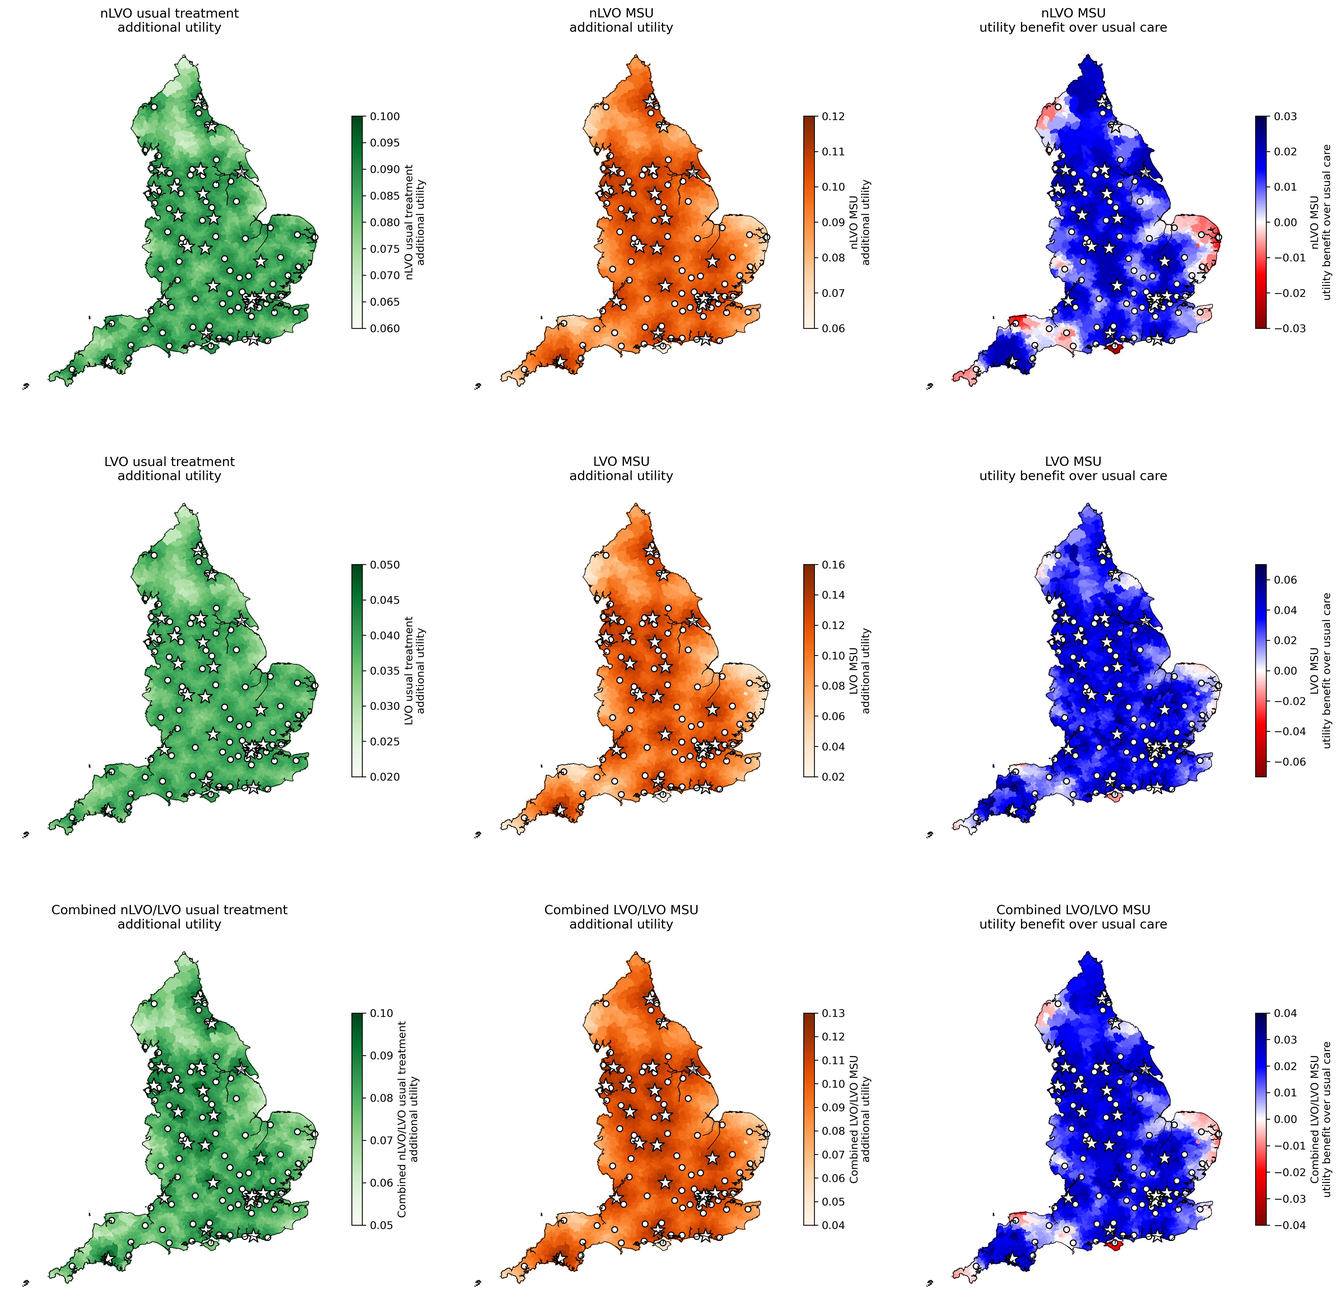
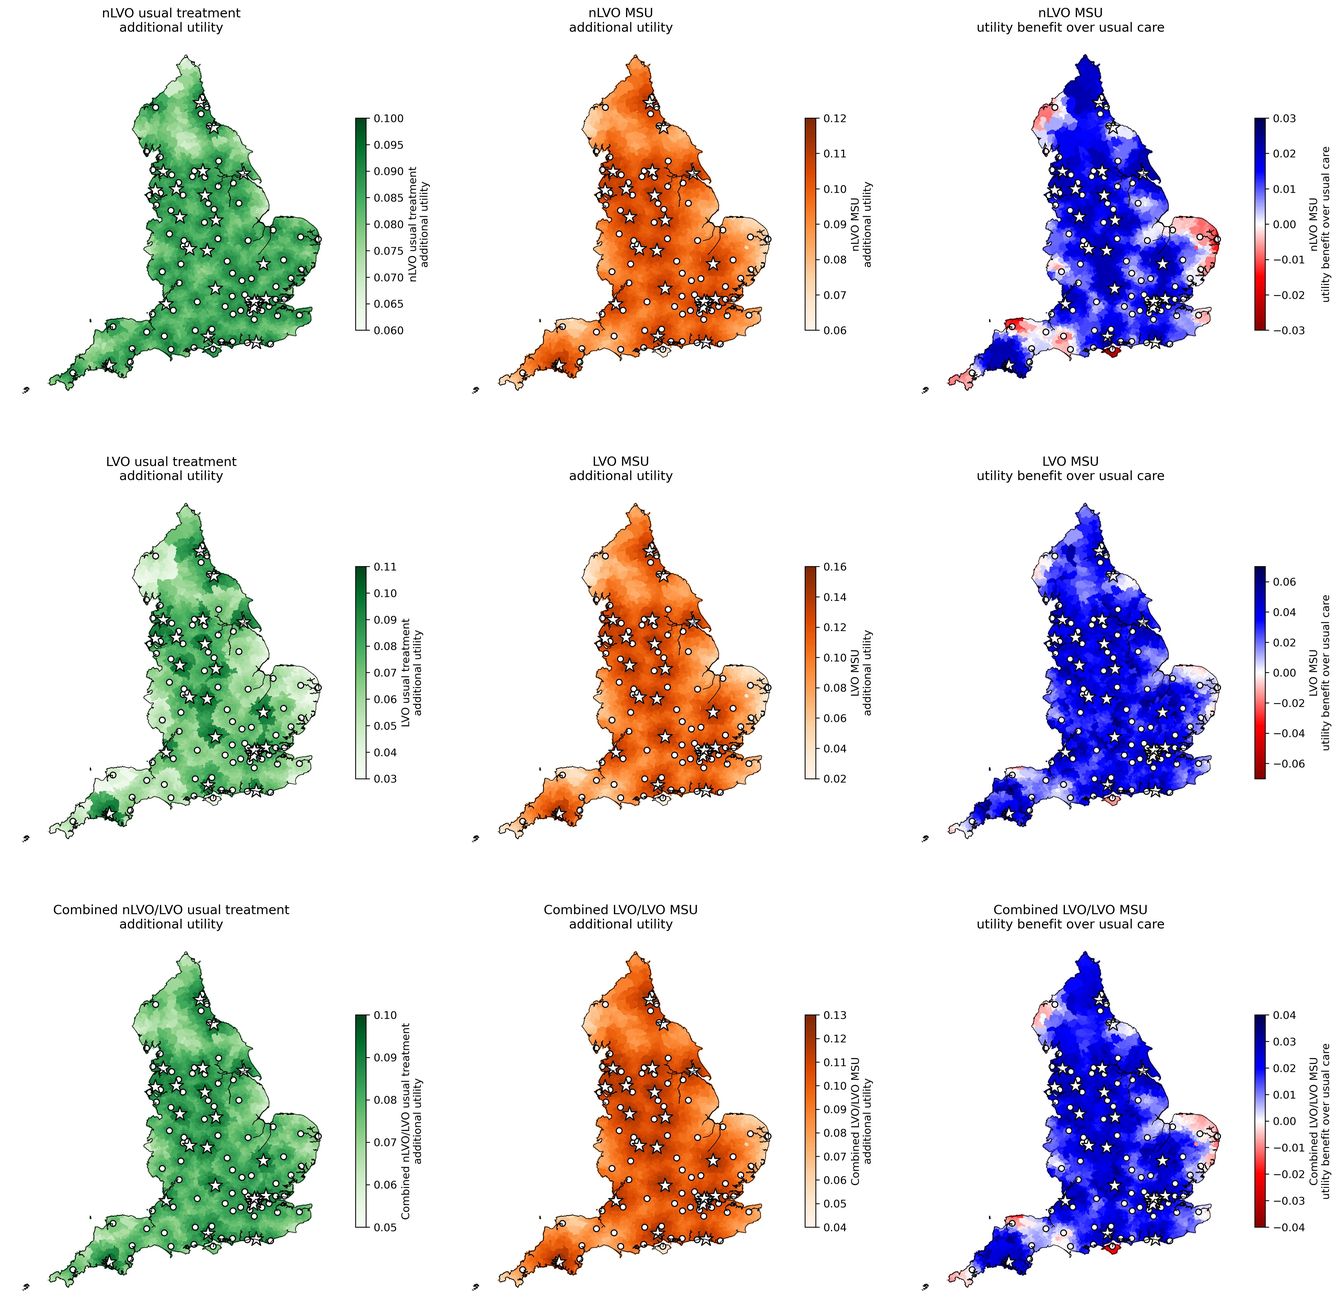
Updates from Overleaf

diff --git a/sections/4_methods.tex b/sections/4_methods.tex
@@ -1,27 +1,103 @@
 \section{Methods}
 
-\subsection{Model processes}
+\subsection{Outcome modelling}
+
+Detailed methods and code used for modelling outcomes, based on time to thrombolysis and thrombectomy is available at \url{https://github.com/samuel-book/stroke_outcome/}.
+
+We used Modified Rankin Scale (mRS) as a measure of outcome. mRS is the most commonly used instrument to describe post-stroke functional outcome \cite{quinn_functional_2009}, describing independence of living from a scale of 0 (no disability) through to 5 (severe disability), with death assigned a mRS of 6. Utility values for each state were taken from Wang \textit{et al.} 
+ \cite{wang_utility-weighted_2020}. The mean mRS score, mean utility and proportion of patients with mRS$\leq$2 in a given mRS distribution can be compared with those of a second mRS distribution to find the mean added utility, mean change in mRS, and change in proportion with mRS$\leq$2 respectively.
+
+Our model contains mRS outcome distributions for three patient-treatment cohorts: nLVO treated with IVT; LVO treated with IVT; and LVO treated with MT. For each cohort we derived an mRS distribution for treatment given at \emph{t=0} (time of stroke onset) and an mRS distribution for treatment given at \emph{t=No Effect} (time of no effect of treatment).
+
+The derivations used analysis from reperfusion treatment clinical trials \cite{lees_time_2010, emberson_effect_2014, goyal_endovascular_2016, fransen_time_2016}, and data on stroke admissions in England and Wales (Sentinel Stroke National Audit Programme). Occlusion types were assigned using the National Institutes of Health Stroke Scale (NIHSS) on arrival as a surrogate (NIHSS 0-10 as nLVO; NIHSS 11+ as LVO), as NIHSS has been shown to have higher accuracy in separating nLVO and LVO than other stroke scales (Area under Receiver Operating Characteristic Curve = 0.86 \cite{duvekot_comparison_2021}). This analysis provides an estimate of 30\% LVO and 70\% nLVO in the treatable population. These derived values were also cross-checked against stroke types identified in studies on pre-hospital selection of patients with suspected large vessel occlusion \cite{de_la_ossa_herrero_design_2013}, where 38\% of the paopulation where RACE was applied were found to bt LVO. The time to no effect was 6.3 hours for IVT \cite{emberson_effect_2014} and 8.0 hours for MT \cite{ fransen_time_2016}. Our model did not include selection of patients who may still benefit from treatment past these times.
+
+The derivations require mRS distributions of the pre-stroke (sourced from SSNAP data) and no-treatment populations. The nLVO no-treatment population is the weighted difference of no-treatment populations containing both patients with nLVOs and LVOs \cite{lees_time_2010} and containing only LVO patients \cite{goyal_endovascular_2016}, where weights of 149\% and 49\% respectively result in the nLVO no-treatment probability of mRS$\leq$1 matching a reference population\cite{emberson_effect_2014}. The resulting proportions of nLVO (51\%) and LVO patients (49\%) are similar to those in clinical trials \cite{ist-3_collaborative_group_benefits_2012, emberson_effect_2014}. We derived each no-effect mRS distribution by applying the excess death rate due to treatment equally across the mRS distribution of patients who received no treatment. We calculate the remaining IVT data using excess death rates of 1.1\% for nLVO and 3.4\% for LVO, from the difference in death rates of trial groups given thrombolysis and given no treatment \cite{emberson_effect_2014}. The distribution for treatment at \emph{t=0} is found using the methodology of log-odds ratio of a good outcome falling linearly with time to treatment \cite{emberson_effect_2014, fransen_time_2016}. For each of the nLVO and LVO distributions, we use the change of log-odds ratio of mRS$\leq$1 with time to thrombolysis \cite{emberson_effect_2014} to scale the probability of mRS$\leq$1 from \emph{t=No Effect} to \emph{t=0}. These \emph{t=0} mRS$\leq$1 data inform the weights for weighted averages of the pre-stroke and \emph{t=No Effect} distributions that create the full \emph{t=0} distributions (64.3\% and 35.7\% for nLVO, 25.5\% and 74.5\% for LVO respectively). The resulting \emph{t=No Effect} and \emph{t=0} distributions for nLVO are consistent with the decline of chance of mRS$\leq$1 with time \cite{holodinsky_modeling_2018}. The MT \emph{t=0} distribution is defined as the weighted average of 75\% of the pre-stroke and 25\% of the \emph{t=No Effect} distributions, following a reference rate of successful recanalisation \cite{hui_efficacy_2020}. The MT excess death rate is set to 4.0\% to ensure that log-odds falling linearly with time between the values of mRS$<$6 in the \emph{t=0} and in the \emph{t=No Effect} distributions is consistent with a reference average mortality rate at the average MT time \cite{goyal_endovascular_2016}. The resulting \emph{t=0} and \emph{t=No Effect} mRS$\leq$2 probabilities give close matches to a reference decline of chance of mRS$\leq$2 with time \cite{fransen_time_2016}.
+
+The resulting \textit{t=0} and \textit{t=No Effect} distributions may be interpolated to calculate an mRS distribution for treatment at any given time, assuming that log odds fall linearly over time \cite{emberson_effect_2014, fransen_time_2016}. 
+
+\subsection{Modelling processes}
+
+All code used for MSU modelling is available at \url{https://github.com/stroke-modelling/muster2}.
 
 Figure \ref{fig:process} describes the processes modeled. \textit{Usual care} may be provided by first admission either at a \textit{primary stroke centre} providing IVT only (with onward transfer to comprehensive stroke centre for MT), or a \textit{comprehensive stroke centre} providing both IVT and MT. The alternative pathway of a \textit{mobile stroke unit} involved the mobile stroke unit providing on-scene IVT, followed by transfer to the closest comprehensive stroke centre for MT.
 
 Unless specified otherwise, it is assumed that mobile stroke units are located at comprehensive stroke centres.
 
-Geographic analysis was undertaken at Lower Super Output Area (LSO) level. Travel times from each LSOS to all hospitals and travel times between hospitals have been estimated using Open Street Map data, with results calibrated against Google Maps. Travel times have been made available (\url{https://gitlab.com/michaelallen1966/1811_lsoa_to_acute_hospital_travel}).
+Geographic analysis was undertaken at Lower Super Output Area (LSOA) level. Travel times from each of 32,843 LSOAs to all hospitals, and travel times between hospitals have been estimated using Open Street Map data, with results calibrated against Google Maps. Travel times have been made available (\url{https://gitlab.com/michaelallen1966/1811_lsoa_to_acute_hospital_travel}).
 
-\begin{figure}
+\begin{figure}[h]
     \centering
     \includegraphics[width=0.85\linewidth]{images/stroke_treatment.jpg}
-    \caption{Processes modeled for provision of IVT and MT. Top: First admission to a primary stroke centre providing IVT, followed by transfer to a comprehensive stroke centre for MT. Middle first admission to a comprehensive stroke centre providing both IVT and MT. }
+    \caption{Processes modeled for provision of IVT and MT. Top: First admission to a primary stroke centre providing IVT, followed by transfer to a comprehensive stroke centre for MT. Middle first admission to a comprehensive stroke centre providing both IVT and MT. Process times other than travel times are fixed for all patients. Travel times depend on locations of patient and hospitals, with results calculated for all LSOAs in England.}
     \label{fig:process}
 \end{figure}
 
-\subsection{Outcome modeling}
+For each LSOA times to thrombolysis and thrombectomy are calculated by summing all the non-travel process times (constant for all patients) and adding required travel times (bespoke for each LSOA location, and for each inter-hospital transfer). Outcomes are then calculated based on these LSOA-specific timers to IVT and MT for usual-care or care with mobile stroke unit. All calculations are performed in Python/NumPy.
+
 
 \subsection{Scenario analysis}
 
-Scenario analysis was undertaken to investigate how model parameters
+Scenario analysis was undertaken to investigate how changing assumed model parameters affect outcomes across all LSOAs. Parameter values were varied according to the following (all times in minutes), with all combinations modelled:
+
+\begin{minipage}{1.0\textwidth}  % Define the width of the minipage
+\begin{spacing}{1.2}
+\begin{itemize}
+    \item All patients:
+    \begin{itemize}
+        \item Stroke onset to call: 0, 60, 120, 180
+    \end{itemize}
+    \item Usual care:
+    \begin{itemize}
+        \item Call to ambulance arrival: 15, 30, 45
+        \item Ambulance on-scene: 20, 30, 45
+        \item Hospital arrival to IVT: 30, 45
+        \item Transfer-related delay (excluding travel time): 30, 60, 90
+        \item Hospital arrival to MT: 60, 90, 120
+    \end{itemize}
+    \item Mobile stroke units:
+    \begin{itemize}
+        \item Call to MSU dispatch: 0, 15, 30, 45
+        \item MSU arrival to IVT: 15, 30, 45
+        \item MSU on-scene post-IVT: 5, 15
+        \item MSU hospital arrival to MT: 30, 60, 90
+    \end{itemize}
+\end{itemize}
+\end{spacing}
+\end{minipage}
+
 
 \subsection{Geographic analysis}
 
+To study geographic variation in benefit of MSUs, a single set of parameters was chosen, reflecting a reasonable base case for performance of normal care and MSU care. Process times (minutes) are shown below, with ambulance and MSU travel times and inter-hospital travel times dependent on patient location (LSOA). In this base case scenario MSUs are based at comprehensive stroke centres only. Admission numbers per LSOA were taken from HES 2017-2019 (using OCD-10 codes of I61, I63 and I64).
 
 
+\begin{minipage}{1.0\textwidth}  % Define the width of the minipage
+\begin{spacing}{1.2}
+\begin{itemize}
+    \item All patients:
+    \begin{itemize}
+        \item Stroke onset to call: 60
+    \end{itemize}
+    \item Usual care:
+    \begin{itemize}
+        \item Call to ambulance arrival: 20
+        \item Ambulance on-scene: 30
+        \item Hospital arrival to IVT: 45
+        \item Transfer-related delay (excluding travel time): 60
+        \item Hospital arrival to MT: 90
+    \end{itemize}
+    \item Mobile stroke units:
+    \begin{itemize}
+        \item Call to MSU dispatch: 15
+        \item MSU arrival to IVT: 30
+        \item MSU on-scene post-IVT: 5
+        \item MSU hospital arrival to MT: 60
+    \end{itemize}
+\end{itemize}
+\end{spacing}
+\end{minipage}
+
+
+\subsection{Varying number of MSU locations}
+
+In order to study the effect of changing the number of MSU base locations, a greedy algorithm was used. In this method, 100 MSU locations are added, chosen from any stroke unit type, in the order of maximum improvement in outcomes (utility). The utility gain is calculated for those patients treated by a MSU rather than usual care; the algorithm is therefore looking at the effect of changing MSU locations rather than the number of physical MSUs.

diff --git a/sections/5_results.tex b/sections/5_results.tex
@@ -2,47 +2,73 @@
 
 \subsection{Scenario analysis}
 
+Figure \ref{fig:scenarios_overview} shows the range of results, measured by utility or the proportion of patients with an outcome of mRS 0-2, separating the changes for nLVO and LVO. Across all scenarios MSUs are usually found to be advantageous compared with usual care, but in some scenarios (comparing the best likely usual care with the worst likely MSU care), MSUs were found to be disadvantageous compared with usual care. Across the majority of scenarios the benefit of MSU care over usual care was typicall (interquartile range across scenarios) an improvement of 0.005 to 0.021 in utility for nLVO, and 0.016-0.052 for LVO treated with both IVT and MT. This translated to an improvement of the proportion of patients mRS 0-2 of 0.005-0.023 for nLVO, and 0.017-0.055 for LVO treated with both IVT and MT. The benefit to patients with LVO was derived mostly by improving benefit of MT by direct transport to a MT-capable unit.
 
 
-\begin{figure}
+\begin{figure}[h]
     \centering
     \includegraphics[width=0.6\linewidth]{images/scenario_results_summary.png}
-    \caption{Enter Caption}
-    \label{fig:enter-label}
+    \caption{Benefit of usual care over MSU care across all scenarios, in the treated population, measured by utility or the proportion of patients with an outcome of mRS0-2, separating the changes for nLVO and LVO. Results for LVO show the effect of MSUs on the benefit derived from IVT alone, or by IVT/MT in combination. Box plots show range, interquartile range, and median. Overlaid over the box plots are violin plots showing the distribution of results across all scenarios. A positive value indicates MSUs provide an advantage over usual care, and a negative result show MSUs are disadvantageous compared with usual care. Results are the average effect across all LSOAs in England.}
+    \label{fig:scenarios_overview}
 \end{figure}
 
+Figure \ref{fig:scenarios_utility} shows how changing model parameters affects the predicted benefit of MSUs, using utility as a measure. Results show the combined affect on nLVO/LVO assuming 70\% nLVO and 30\% LVO  in the treatable population. Changing time from onset to call only had marginal effect on the benefit of MSUs over usual care. Changing parameters that worsen usual care (such as lengthening ambulance response times, or lengthening arrival to IVT, lead to improved advantages of MSUs over usual care. Likewise, changing parameters that improve MSU care (such as MSU dispatch times, or time to IVT on scene) improved advantages of MSUs over usual care.
 
-\begin{figure}
+\begin{figure}[h]
     \centering
     \includegraphics[width=1\linewidth]{images/msu_net_utility_benefit.png}
-    \caption{Enter Caption}
-    \label{fig:enter-label}
+    \caption{The effect of changing model parameters on the predicted benefit of MSUs over usual care, in the treated population, measured by utility. For each target parameter results are averaged across all scenarios with that given parameter value. Box plots show range, interquartile range, and median. Overlaid over the box plots are violin plots showing the distribution of results across all scenarios. Results are the average effect across all LSOAs in England.}
+    \label{fig:scenarios_utility}
 \end{figure}
 
 \subsection{Geographic variation}
 
+In the base case scenario MSUs are based at comprehensive stroke centres only, and we assume there is a mix of 70\% nLVO and 30\% LVO in the treated population.
 
-\begin{figure}
+Figure \ref{fig:map_times} shows travel and transfer times for usual care and for MSUs. When a patient first attends an IVT-only centre, the times to IVT include the travel time to the IVT-only centre, the inter-hospital travel time, and a net additional delay of 60 minutes. There is significant variation in travel times to IVT centres, but there is more substantial variation in times to MT due to the need for transfer. 67\% of LSOAs and 70\% of admissions require transfer for MT. As, the base MSUs are based at comprehensive stroke centres only, travel times for a MSU can exceed the travel time of a normal ambulance to the closest centre providing IVT, and this extra travel time can lead to delayed time to IVT in those regions furthest away from MSU bases locations.
+
+\begin{figure}[h]
+    \centering
+    \includegraphics[width=1.0\linewidth]{images/map_times.jpg}
+    \caption{Travel times for each LSOA. \textit{Left}: Travel times to nearest unit providing IVT. \textit{Middle}: Travel times to unit providing MT. For those first attending an IVT-only centre, the travel times include the travel time to the IVT-only centre, the inter-hospital travel time, and a net additional delay of 60 minutes. \textit{Right}: Travel times for MSUs. Circles show locations of IVT-only units. Stars show locations of comprehensive stroke centres providing both IVT and MT, and being the base locations of MSUs.}
+    \label{fig:map_times}
+\end{figure}
+
+
+In this base case, without reperfusion treatment, there is an average outcome utility of 0.52 across nLVO and LVO. With usual care, the is a utility gain of 0.086 in treated patients. MSUs provided an average further utility gain in treated patients of 0.022 over usual care.
+
+Figure \ref{fig:msu_map_utility} shows maps of geographic variation in benefit of MSUs over usual care, by stroke type, using the reasonable base case scenario. Figure \ref{fig:msu_histograms} shows the distribution of net benefit (assuming 70\%nLVO, 30\% LVO in the treated population) across LSOAs. There is significant variation in the benefit of reperfusion using usual care, with those living closest to comprehensive stroke units receiving the greatest benefit. This is due the larger utility gain of reperfusion treatment coming from the treatment of LVO, and with those patients benefiting most from rapid access to thrombectomy.
+
+The benefit of MSUs over usual care follows different patterns for nLVO and LVO. For nLVO, the benefit of MSU falls with distance away from the MSU base. For LVO the benefit first falls with with distance away from the MSU base, but then benefit increases where use of the MSU avoids inter-hospital transfer for MT, before falling again with greater travel times for the MSU. The catchment area of benefit for LVO, when using MSUs, is therefore wider than the catchment area of benefit for nLVO, with the maximum benefit being in a halo a little way away from the MSU base location, where patient transfer for MT is avoided but MSU travel times are still acceptable.
+
+
+\begin{figure}[h]
     \centering
     \includegraphics[width=1\linewidth]{images/map_utility.jpg}
-    \caption{Enter Caption}
-    \label{fig:enter-label}
+    \caption{Map of treatment benefits, calculated by LSOA for the treated population. \textit{Top}: Treatment of nLVO; \textit{Middle}: Treatment of LVO, \textit{Bottom}: Combination of treatment (based on 70\% nLVO and 30\% LVO in the treated population). \textit{Left (green)}: Benefit of usual care over no treatment;\textit{Middle (orange)}: Benefit of MSU care over no treatment; \textit{Right (blue/red)}: Benefit of MSU care over usual care. Circles show locations of IVT-only units. Stars show locations of comprehensive stroke centres providing both IVT and MT, and being the base locations of MSUs.}
+    \label{fig:msu_map_utility}
 \end{figure}
 
-\begin{figure}
+Figure \ref{fig:msu_histograms} shows histograms of benefit of MSUs over usual care. For most LSOAs MSU improve time to IVT and MT, but some areas have worsened times. This is reflected in most areas having a benefit of about a 0.03 increase in the proportion of patients with MRS 0-2 after stroke, and similarly a benefit of about a 0.03 increase in utility after stroke. Some areas though have reduced benefit, or even disbenefit of using MSUs. The maximum benefit is about 0.04 improvement in both the proportion of patients with MRS 0-2 after stroke and utility after stroke.
+
+\begin{figure}[h]
     \centering
     \includegraphics[width=0.75\linewidth]{images/histograms.png}
-    \caption{Enter Caption}
-    \label{fig:enter-label}
+    \caption{Distribution of benefit of MSUs over normal care across MSUs. Benefit is described either as even across LSOAs (solid line), or weighted by admissions by LSOA (dotted line). Histograms show change in time to IVT (top left), time to MT (top right), proportion mRS 0-2 (bottom left), or utility (bottom right).}
+    \label{fig:msu_histograms}
 \end{figure}
 
+\subsection{Varying number of MSU locations}
 
+A greedy algorithm was used to select locations of MSUs. The utility gain is calculated for those patients treated by a MSU rather than usual care. As the number of MSU locations increased, the benefit of MSUs over usual care increased (\ref{fig:greedy}), but with diminishing returns. The advantage of MSU care over usual care improved utility by 0.020, 0.024, 0.027, and  with 10, 25, 50 and 100 MSU base locations. 
 
-\begin{figure}
+When selecting locations of mobile stroke units, in the first 10 selections, 3 were comprehensive stroke units, and in the first 20, 8 were comprehensive stroke units.
+
+\begin{figure}[h]
     \centering
-    \includegraphics[width=0.5\linewidth]{images/greedy.png}
-    \caption{Enter Caption}
-    \label{fig:enter-label}
+    \includegraphics[width=0.5\linewidth]{images/msu_advantages_greedy.png}
+    \caption{Increasing number of base locations of MSUs, with selection by a greedy algorithm based on improvements in utility. The utility improvement is for those patients treated by MSU rather than usual care.}
+    \label{fig:greedy}
 \end{figure}
 
-When selecting locations of mobile stroke units, in the first 10 selections, 3 were comprehensive stroke units, and in the first 20, 7 were comprehensive stroke units.
+

diff --git a/main.tex b/main.tex
@@ -24,6 +24,7 @@
 \usepackage{pdflscape} % To create landscape pages that show as landscape in PDF viewer
 \usepackage{placeins} % to use \FloatBarrier where want a hard break between content (to force and order of text and figures
 \usepackage{ragged2e} % Better right ragged edges (allows hyphenation)
+\usepackage{setspace} % For line spacing control
 \usepackage{subcaption} % Allows use of subfigures
 \usepackage{titlesec} % For title spacing
 \usepackage[toc,page]{appendix}
@@ -52,15 +53,17 @@
 \input{sections/1_title}
 \maketitle
 \begin{refsection} % Allows separate references for main paper and, later, appendix
-\input{sections/2_abstract}
-\input{sections/3_introduction}
+%\input{sections/2_abstract}
+%\input{sections/3_introduction}
 \input{sections/4_methods}
 \input{sections/5_results}
-\input{sections/6_discussion}
+%\input{sections/6_discussion}
 % References
+\clearpage
+\newpage
 \printbibliography
 \end{refsection}
-\include{sections/7_other_material}
+%\include{sections/7_other_material}
 
 % Number for supplementary material
 \newcommand{\beginsupplement}{

diff --git a/sections/1_title.tex b/sections/1_title.tex
@@ -4,9 +4,15 @@
 \renewcommand{\thefootnote}{\fnsymbol{footnote}}
 \author[1,2]{Anna Laws}
 \author[*1,2]{Michael Allen}
-\author[1,2]{Kerry Pearn}
 \author[3]{Jason Scott}
 \author[3]{Lisa Mosely}
+\author[1,2]{Kerry Pearn}
+\author[4]{Gary Ford}
+\author[5]{Chris Price}
+\author[5]{Phil White}
+\author[7]{Graham McClelland}
+\author[5]{Lisa Shaw}
+\author[6]{Daniel Philips}
 \author[3]{Peter McMeekin}
 \author[1,2]{Martin James}
 
@@ -14,4 +20,8 @@
 \affil[1]{\footnotesize University of Exeter Medical School}
 \affil[2]{\footnotesize NIHR South West Peninsula Applied Research Collaboration (ARC)}
 \affil[3]{\footnotesize Northumbria University}
+\affil[4]{\footnotesize University of Oxford}
+\affil[5]{\footnotesize University of Newcastle}
+\affil[6]{\footnotesize East of England Ambulance Service NHS Trust}
+\affil[7]{\footnotesize North East Ambulance Service NHS Foundation Trust}
 \affil[*]{\footnotesize Corresponding author: m.allen@exeter.ac.uk}

diff --git a/sections/3_introduction.tex b/sections/3_introduction.tex
@@ -1,6 +1,5 @@
 \section{Introduction}
 
-Example citation \cite{chen_systematic_2022}
 % What is the problem (stroke eburden)
 
 % What do we know (see chen_systematic_2022 for review)
